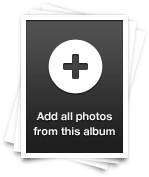
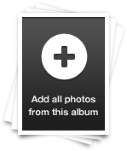
fixed 763-make-add-all-photos-button-bigger

diff --git a/public/javascripts/zz/photochooser.js b/public/javascripts/zz/photochooser.js
@@ -166,13 +166,14 @@
             });
 
 
+
+            //create a blank cell so we can float the 'add all photos' button over it
             if(hasPhotos){
                 var addAllButton = {
                     id: 'add-all-photos',
-                    src: '/images/folders/add_all_photos.png',
+                    src: '',
                     caption: '',
-                    type: 'folder', //todo: need new type for button..
-                    add_url: folder.add_url
+                    type: 'blank', 
                 };
 
                 children.unshift(addAllButton);
@@ -190,12 +191,7 @@
                 context: 'chooser-grid',
                 onClickPhoto: function(index, photo, element, action){
                     if(photo.type === 'folder'){
-                        if(photo.id === 'add-all-photos'){
-                            self.add_folder_to_album(photo.add_url, element);
-                        }
-                        else{
-                             self.openFolder(photo);
-                        }
+                         self.openFolder(photo);
                     }
                     else{
                         if(action === 'main'){
@@ -217,6 +213,15 @@
 
             }).data().zz_photogrid;
 
+            if(hasPhotos){
+                var addAllButton = $('<img class="add-all-button" src="/images/folders/add_all_photos.png">');
+                addAllButton.click(function(){
+                    self.add_folder_to_album(folder.add_url, addAllButton);
+                });
+
+                $('.photochooser .photochooser-body .photogrid').append(addAllButton);
+            }
+            
             self.updateCheckmarks();
 
         },
@@ -252,7 +257,7 @@
                 onClickPhoto: function(index, photo, element, action){
                     if(photo.type === 'folder'){
                         if(photo.id === 'add-all-photos'){
-                            self.add_folder_to_album(photo.add_url, element);
+                            self.add_folder_to_album(photo.add_url, $(element).find('.photo-image'));
                         }
                         else{
                              self.openFolder(photo);
@@ -264,7 +269,7 @@
                                 self.remove_photo_by_guid(photo.id); //chooser photos have source_guid as their id
                             }
                             else{
-                                self.add_photo_to_album(photo.add_url, element);
+                                self.add_photo_to_album(photo.add_url, $(element).find('.photo-image'));
                             }
                         }
                         else if(action === 'magnify'){
@@ -724,10 +729,10 @@
             
         },
 
-        animate_to_tray: function(element, callback){
+        animate_to_tray: function(imageElement, callback){
             var self = this;
 
-            var imageElement = element.find('.photo-image');
+//            var imageElement = element.find('.photo-image');
 
 
             var start_top = imageElement.offset().top;

diff --git a/public/stylesheets/photochooser.css b/public/stylesheets/photochooser.css
@@ -31,6 +31,9 @@
     left:20px;
 }
 
+
+
+
 /*.photochooser .header h3{*/
     /*font-size: 17px;*/
     /*font-weight: 500;*/
@@ -57,6 +60,19 @@
     right:0px;
     bottom:50px;
     /*border:1px solid blue;*/
+}
+
+
+.photochooser .photochooser-body .photogrid img.add-all-button{
+    /*background: url("/images/folders/add_all_photos.png");*/
+    width: 129px;
+    height: 153px;
+    left:90px;
+    top:8px;
+    position:absolute;
+    cursor: pointer;
+
+    
 }
 
 .photochooser .photochooser-body .progress-indicator{

diff --git a/public/javascripts/zz/photogrid.js b/public/javascripts/zz/photogrid.js
@@ -598,7 +598,7 @@
 
 
         cells: function(){
-            return this.element.children();
+            return this.element.children('.photogrid-cell');
         },
 
         cellsPerRow : function(){
